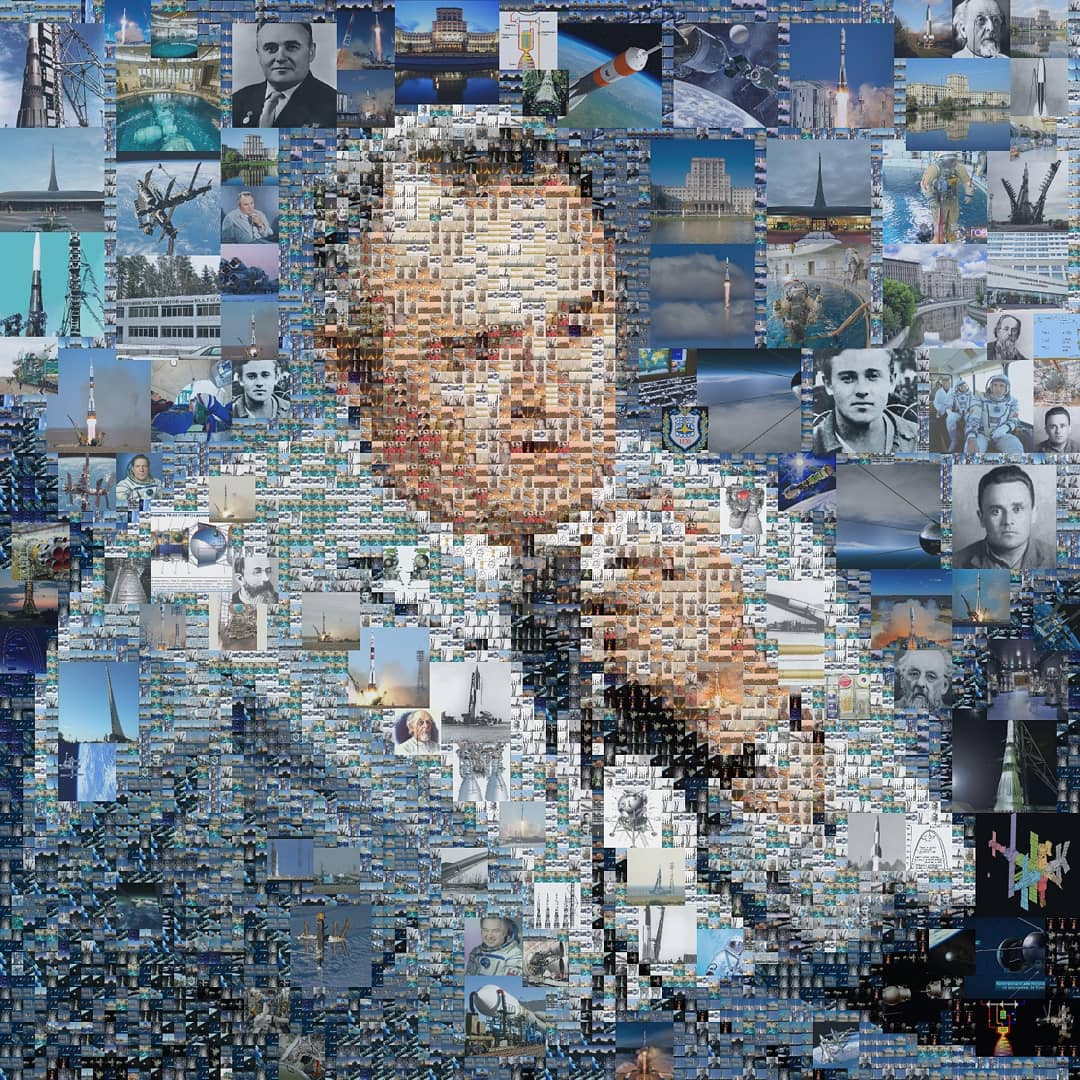
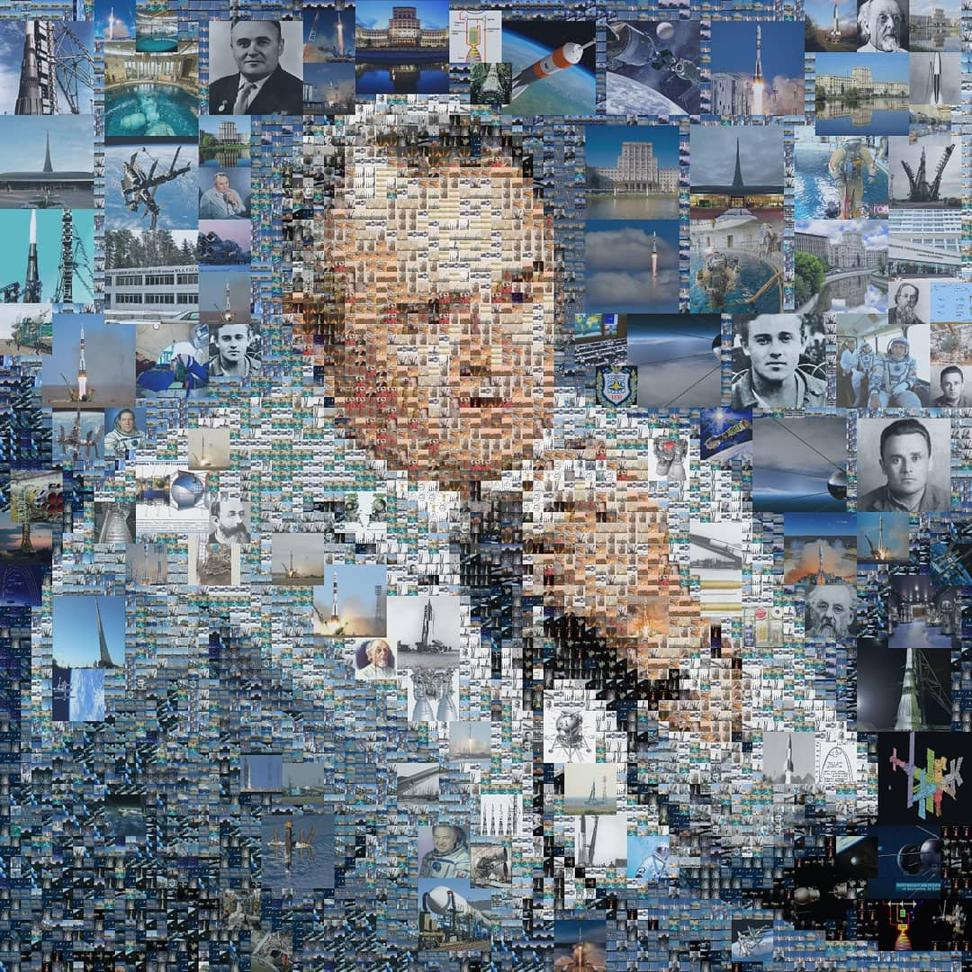
minified images

diff --git a/portfolio/2021.08.15_tickets.md b/portfolio/2021.08.15_tickets.md
@@ -1,10 +1,11 @@
 ---
 title: 'Запуск сценария покупки билетов внутри супераппа банка'
 date: '2021-08-15'
-poster: 'https://github.com/mmarashan/blog.pages/blob/main/images/tickets/1.png?raw=true'
+poster: 'https://github.com/mmarashan/blog.pages/blob/main/images/tickets/min.webp?raw=true'
 tags: ['launch']
 ---
 
 В роли единственного **Android разработчика** в составе небольшой scrum-команды с нуля за 6 месяцев запустил функционал афиши и продажи билетов (выбор мест на svg схеме + оплата) внутри супераппа банковского приложения.
 
-![alt text](https://github.com/mmarashan/blog.pages/blob/main/images/tickets/1.png?raw=true)
+![Команда](https://github.com/mmarashan/blog.pages/blob/main/images/tickets/arena_team.jpg?raw=true)
+![Flow](https://github.com/mmarashan/blog.pages/blob/main/images/tickets/1.webp?raw=true)

diff --git a/blog/2024.09.29-samara.md b/blog/2024.09.29-samara.md
@@ -1,11 +1,14 @@
 ---
 title: 'Самара впадает в сердце'
 date: '2024-09-29'
-poster: 'https://github.com/mmarashan/blog.pages/blob/main/images/blog/2024.09-samara/min.png?raw=true'
+poster: 'https://github.com/mmarashan/blog.pages/blob/main/images/blog/2024.09-samara/min.webp?raw=true'
 tags: []
 ---
 
 Вдохновение. То, ради чего стоит приехать в этот город
 
-![alt text](https://github.com/mmarashan/blog.pages/blob/main/images/blog/2024.09-samara/1.jpg?raw=true)
-![alt text](https://github.com/mmarashan/blog.pages/blob/main/images/blog/2024.09-samara/2.jpg?raw=true)
+Вид с [Вертолетной площадки](https://yandex.ru/maps/-/CDtwiNlN)
+![alt text](https://github.com/mmarashan/blog.pages/blob/main/images/blog/2024.09-samara/1.webp?raw=true)
+
+Дыхание замирает от движения Волги
+![alt text](https://github.com/mmarashan/blog.pages/blob/main/images/blog/2024.09-samara/2.webp?raw=true)

diff --git a/portfolio/2019.06.22_photohack.md b/portfolio/2019.06.22_photohack.md
@@ -1,7 +1,7 @@
 ---
 title: '#2 место на хакатоне PhotoHack 2019'
 date: '2019-06-22'
-poster: 'https://github.com/mmarashan/blog.pages/blob/main/images/photohack/1.jpg?raw=true'
+poster: 'https://github.com/mmarashan/blog.pages/blob/main/images/photohack/min.jpeg?raw=true'
 tags: ['hackaton']
 ---
 
@@ -14,5 +14,6 @@ tags: ['hackaton']
 ![Королев](https://github.com/mmarashan/blog.pages/blob/main/images/photohack/korolev.jpg?raw=true)
 ![Сноуден](https://github.com/mmarashan/blog.pages/blob/main/images/photohack/snowden.jpg?raw=true)
 ![Мерлин](https://github.com/mmarashan/blog.pages/blob/main/images/photohack/monroe.jpg?raw=true)
+![Я](https://github.com/mmarashan/blog.pages/blob/main/images/photohack/me.jpg?raw=true)
 
 ![Команды, занявшие 2 и 3 место](https://github.com/mmarashan/blog.pages/blob/main/images/photohack/1.jpg?raw=true)

diff --git a/portfolio/2023.03.27_android_academy.md b/portfolio/2023.03.27_android_academy.md
@@ -1,9 +1,11 @@
 ---
 title: 'Доклад на Android Academy'
 date: '2023-03-27'
-poster: 'https://github.com/mmarashan/blog.pages/blob/main/images/android_academy/1.png?raw=true'
+poster: 'https://img.youtube.com/vi/fPMTjJzmIfs/hqdefault.jpg'
 tags: ['public']
 ---
 
 В этот день было мое первое появление на Youtube.
 И сразу на Android Academy! Благодаря лекциям Академии я 5 лет назад смог выучиться и вырасти в мобильной разработку, поэтому когда предложили сделать [доклад на тему навигации](https://www.youtube.com/live/fPMTjJzmIfs), ни секунды не сомневался.
+
+[![Watch the video](https://img.youtube.com/vi/fPMTjJzmIfs/maxresdefault.jpg)](https://www.youtube.com/live/fPMTjJzmIfs)

diff --git a/portfolio/2022.03.30_finuslugi.md b/portfolio/2022.03.30_finuslugi.md
@@ -1,7 +1,7 @@
 ---
 title: 'Запуск мобильного приложения Финуслуги'
 date: '2022-03-30'
-poster: 'https://github.com/mmarashan/blog.pages/blob/main/images/finuslugi/1.webp?raw=true'
+poster: 'https://github.com/mmarashan/blog.pages/blob/main/images/finuslugi/min.webp?raw=true'
 tags: ['launch']
 ---
 
